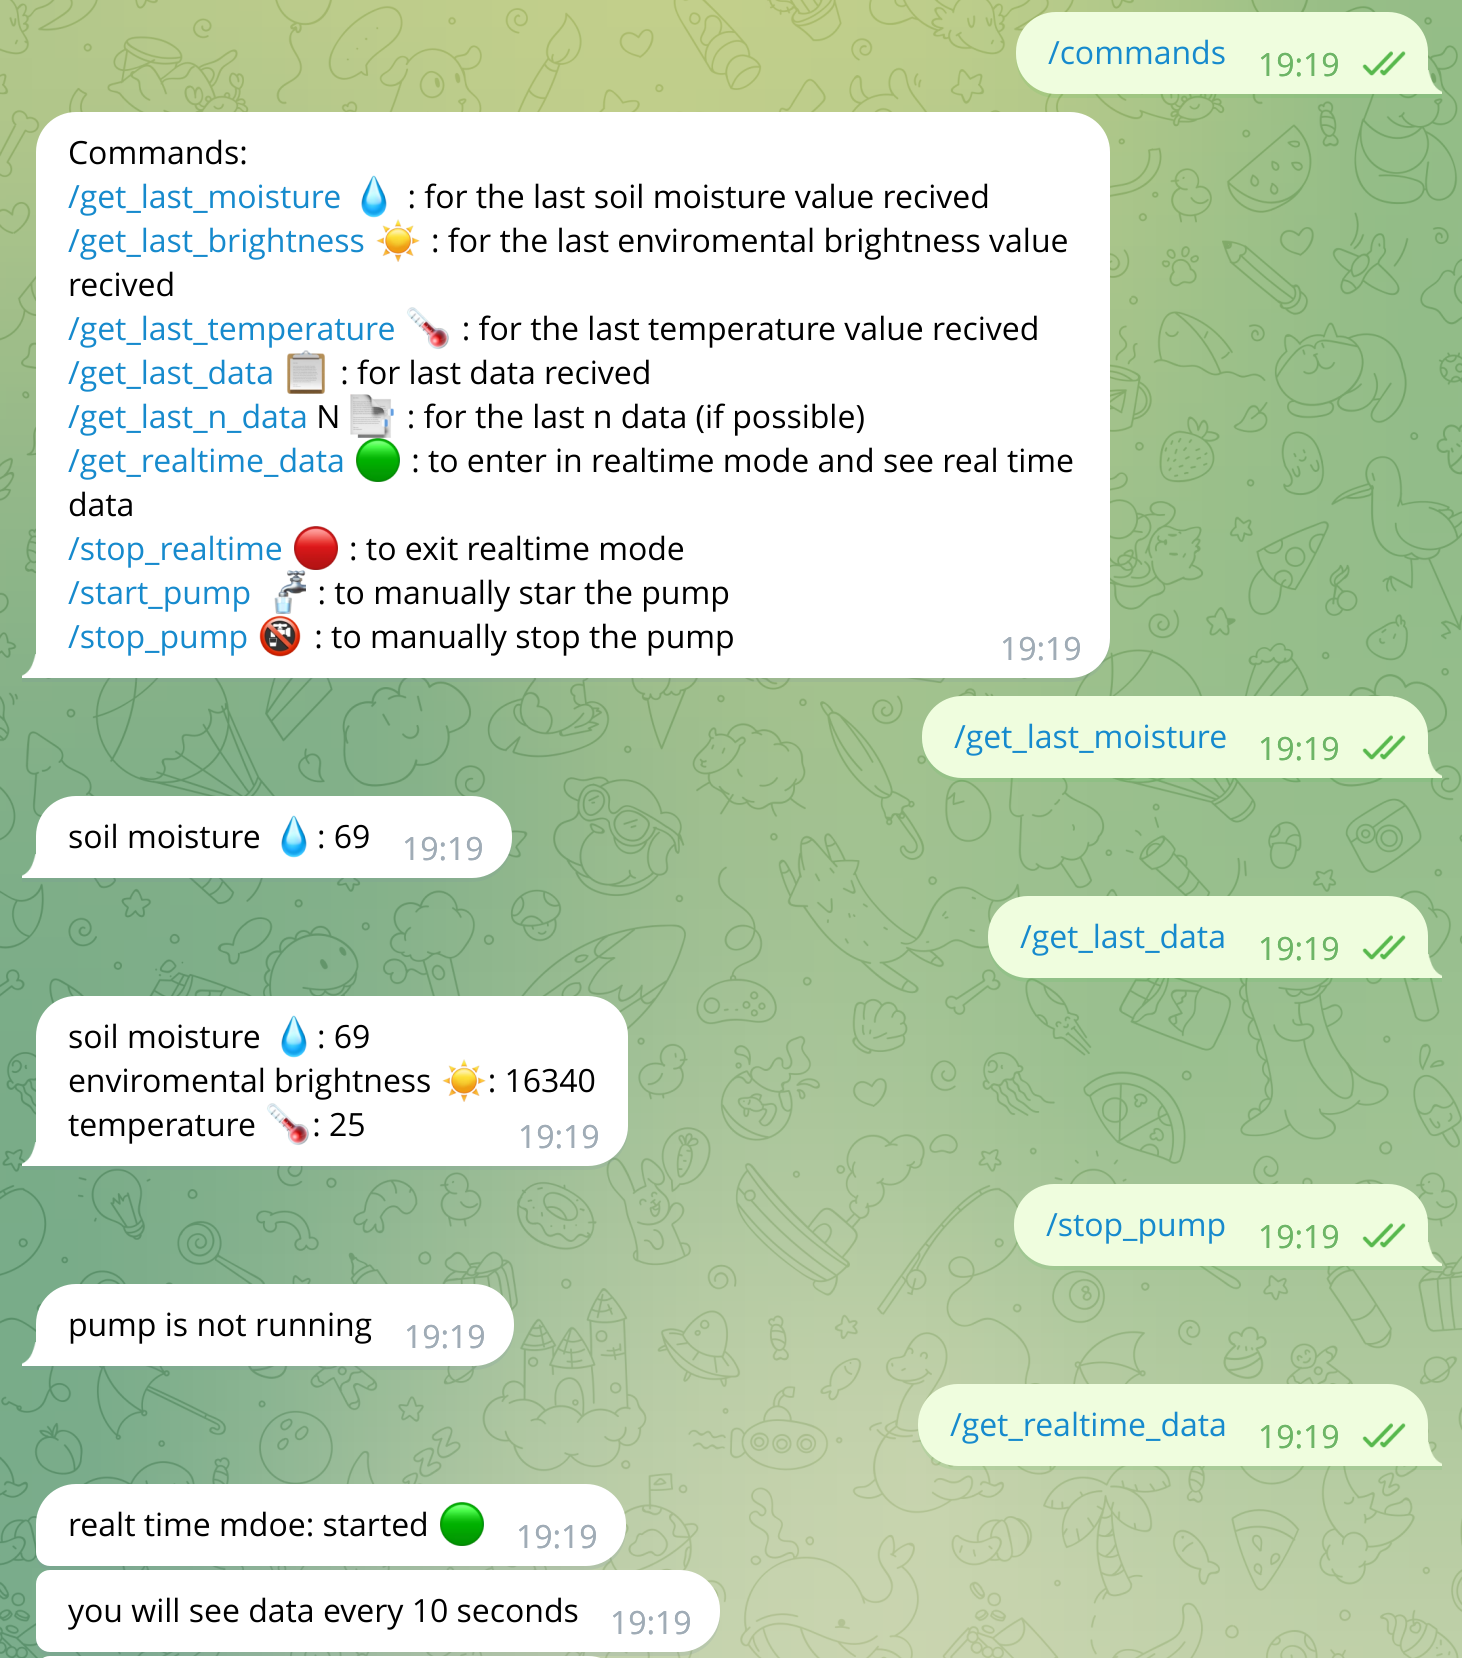
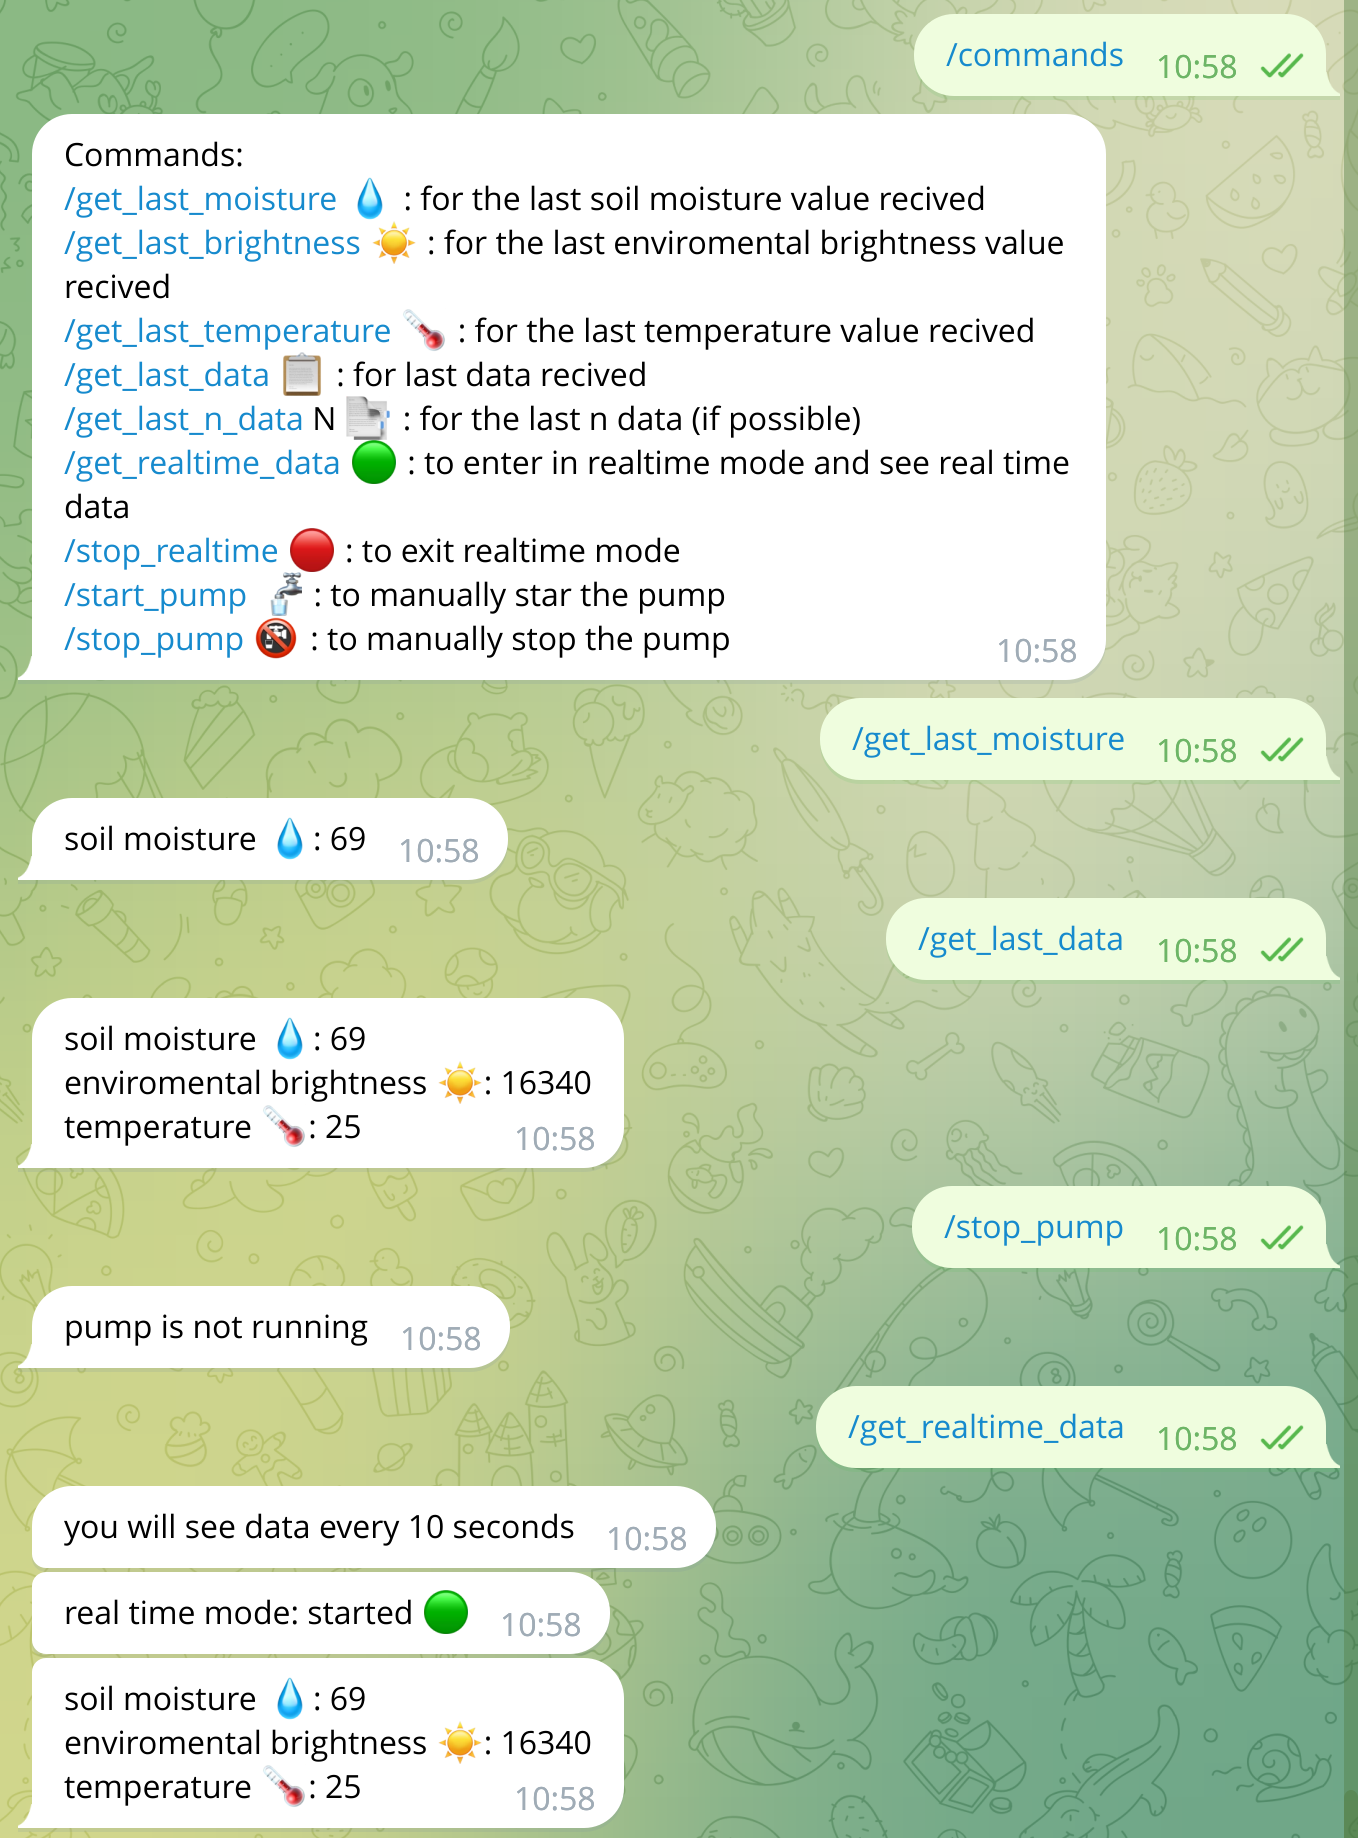
readme corrections

diff --git a/node_server/app.js b/node_server/app.js
@@ -96,7 +96,7 @@ servers.bot.command('get_realtime_data', async (context) => {
     let user = await usersAPI.searchUser(context.message.from.id);
     if (user.realtime === false) {
         console.log('realtime mode activated by ' + context.message.from.first_name + ' ' + context.message.from.last_name);
-        context.reply('realt time mdoe: started \u{1F7E2}');
+        context.reply('real time mode: started \u{1F7E2}');
         context.reply('you will see data every ' + usersAPI.TIME_INTERVAL + ' seconds');
 
         user_interval = setInterval( async () => {

diff --git a/README.md b/README.md
@@ -176,11 +176,7 @@ Simply download the version for you on their [official web site](https://www.ard
 
 Once you have installed it you have to download some libraries to be able to operate on the ESP32 and manage http communication between NodeJS server and ESP32.
 
-First of all open Arduino IDE and go to `tool > Board > Boards Manager`, search for ESP32 by Espressif Systems and press install.
-
-<p align="center">
-<img src="readmeImages/boardManager.png"  width="500">
-</p>
+First of all open Arduino IDE and go to `Tools > Board > Boards Manager`, search for ESP32 by Espressif Systems and press install.
 
 <p align="center">
 <img src="readmeImages/boardManagerW.png"  width="500">
@@ -188,15 +184,12 @@ First of all open Arduino IDE and go to `tool > Board > Boards Manager`, search 
 
 Then we want to install the libraries required for the http comunication.
 
-Go to `tool > Manage Libraries` and search for:
+Go to `Tools > Manage Libraries` and search for:
 
 1. HttpClient by Adrian McEwen
 2. WebServer_ESP32_SC_ENC by Khoi Hoang
 3. WiFiManager by tablatronix
 
-<p align="center">
-<img src="readmeImages/librariesManager.png"  width="500">
-</p>
 
 <p align="center">
 <img src="readmeImages/librariesManagerW.png"  width="500">
